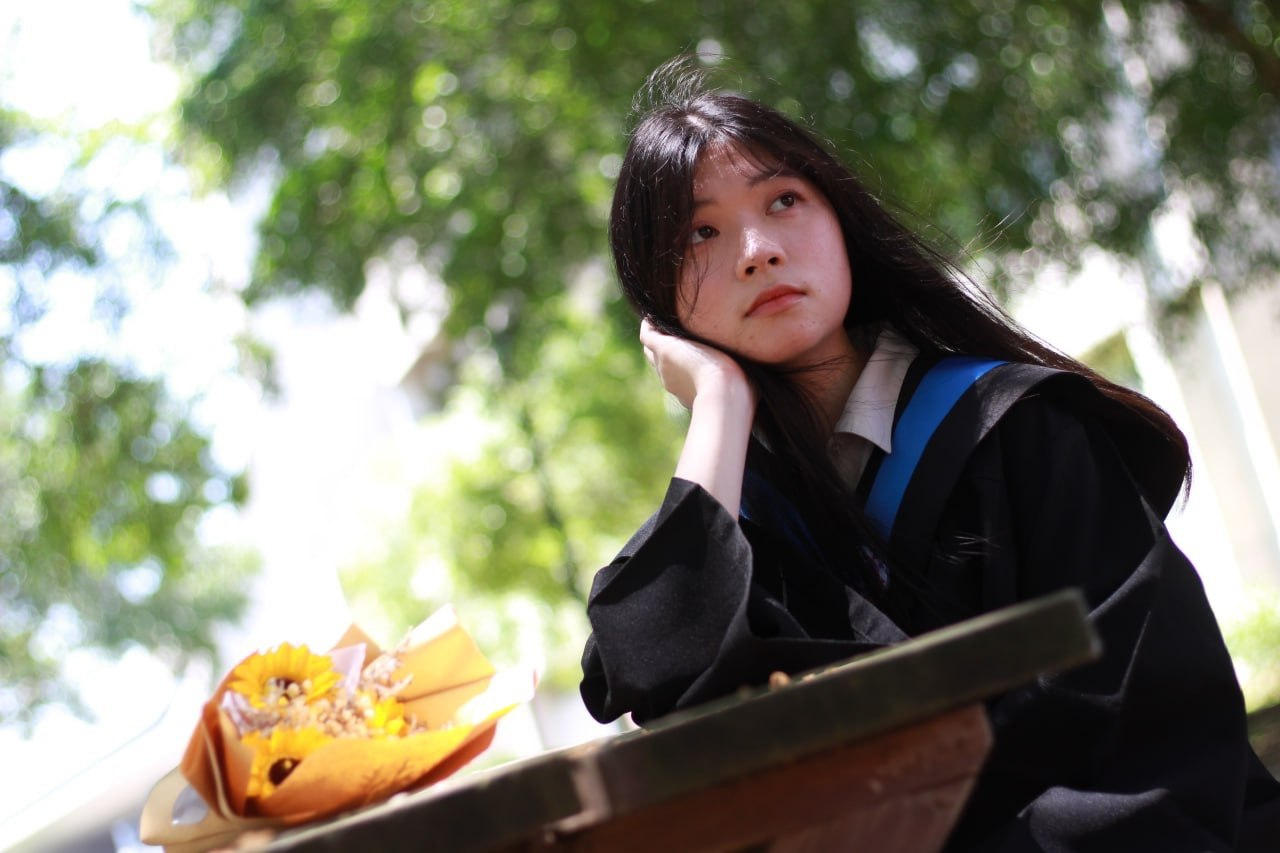
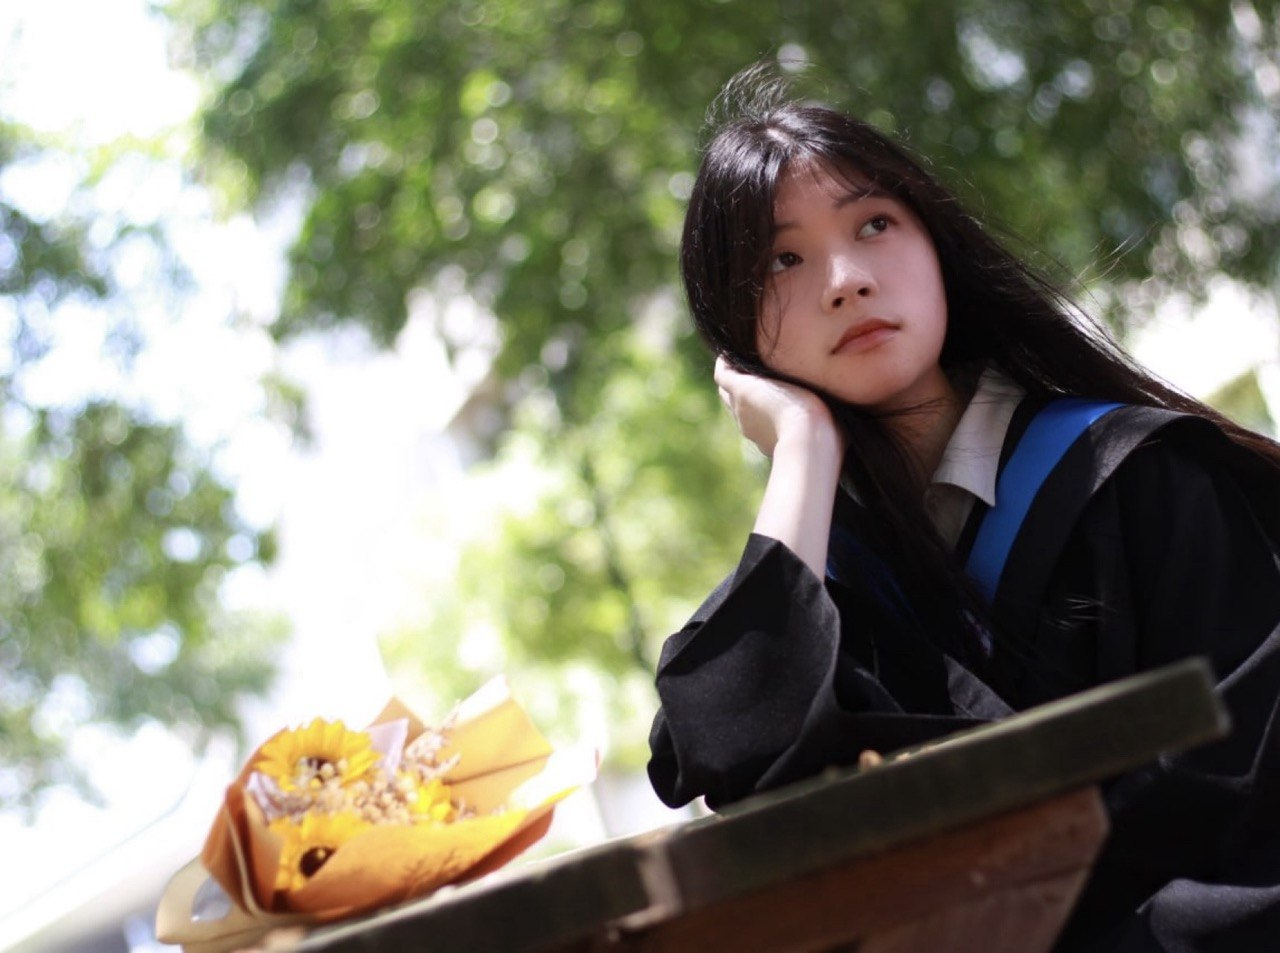
Add mobilephone version

diff --git a/index.html b/index.html
@@ -20,12 +20,24 @@
             padding: 0;
             color: var(--text-color);
             background-color: var(--primary-color);
+        }
+
+        /* 最完美的固定背景解法：
+           利用 body::before 建立一個獨立的固定層，解決 iOS 手機滑動背景破圖的問題 
+        */
+        body::before {
+            content: '';
+            position: fixed;
+            top: 0;
+            left: 0;
+            width: 100vw;
+            height: 100vh;
+            z-index: -2; /* 確保背景圖在所有內容（包含 Header 毛玻璃）的最後面 */
             
-            /* 這裡放你的背景圖 */
+            /* 電腦版預設背景圖 */
             background-image: url('8.jpg'); 
             background-size: cover;
             background-position: center;
-            background-attachment: fixed;
         }
 
         /* 2. 重構 Header：加入毛玻璃漸變效果 */
@@ -45,7 +57,7 @@
             left: 0;
             width: 100%;
             height: 100%;
-            z-index: -1; /* 確保它在內容的下層 */
+            z-index: -1; /* 確保它在內容的下層，但在 body 背景之上 */
             
             /* 加上微暗的漸變底色，讓白色文字更清楚 */
             background: linear-gradient(to bottom, rgba(40, 50, 60, 0.6) 0%, rgba(40, 50, 60, 0) 100%);
@@ -102,13 +114,6 @@
             margin-top: 5px;
         }
 
-        @media (max-width: 600px) {
-            .header-container {
-                flex-direction: column;
-                text-align: center;
-            }
-        }
-
         .container {
             max-width: 900px;
             margin: 0 auto;
@@ -132,7 +137,7 @@
             margin-top: 0;
         }
 
-        /* ------------------ 時間線與其餘 CSS 保持不變 ------------------ */
+        /* ------------------ 時間線與其餘 CSS ------------------ */
         .timeline {
             border-left: 3px solid var(--accent-color);
             padding-left: 1.5rem;
@@ -240,13 +245,46 @@
         a:hover {
             text-decoration: underline;
         }
+
+        /* ------------------ 響應式手機版設定 (Media Query) ------------------ */
+        @media (max-width: 768px) {
+            /* 1. 替換手機版的背景圖片 */
+            body::before {
+                background-image: url('3.jpg'); /* 請將這裡替換成你的手機版圖片檔名 */
+            }
+
+            /* 2. Header 頭像與文字改為上下排列置中 */
+            .header-container {
+                flex-direction: column;
+                text-align: center;
+                gap: 1rem;
+            }
+
+            .profile-img {
+                width: 140px; /* 手機版頭像稍微縮小 */
+                height: 140px;
+            }
+
+            .profile-info h1 {
+                font-size: 2.2rem; /* 手機版標題稍微縮小 */
+            }
+
+            /* 3. 調整手機版左右留白 */
+            .container {
+                padding: 1rem;
+            }
+
+            section {
+                padding: 1.5rem;
+            }
+        }
     </style>
 </head>
 <body>
 
     <header>
         <div class="header-container">
-            <img src="你的大頭貼網址或路徑.jpg" alt="Profile Picture" class="profile-img">
+            <img src="1.jpg" alt="Profile Picture" class="profile-img">
             <div class="profile-info">
                 <div class="profile-author">AUTHOR</div>
                 <h1>蔡函伃 (Hanyu)</h1>
@@ -343,7 +381,7 @@
             <h2>Contact Me</h2>
             <p>歡迎透過以下方式聯繫我：</p>
             <ul>
-                <li>Email: <a href="mailto:your.email@example.com">your.email@example.com</a></li>
+                <li>Email: <a href="mailto:hanyu0325@gmail.com">hanyu0325@gmail.com</a></li>
                 <li>GitHub: <a href="https://github.com/hanyu325" target="_parent">github.com/hanyu325</a></li>
             </ul>
         </section>

diff --git a/README.md b/README.md
@@ -1,2 +1,2 @@
-Design Concept
-Technology Used
+# Design Concept
+# Technology Used
